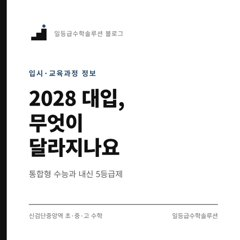
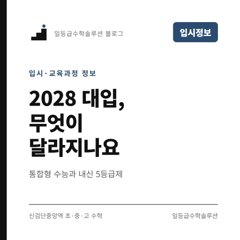
상담 페이지 블로그 카드: 제목 꼬리표·썸네일 뱃지 반영

Changed region(s): [[0.7, 0.0875, 0.9333, 0.2042]]

diff --git a/index.html b/index.html
@@ -97,10 +97,10 @@ form.card input:focus,form.card select:focus,form.card textarea:focus{outline:2p
   <!-- 블로그 공개 글 카드: 홍보\블로그\_sync_site_posts.py 가 자동으로 채움. 직접 고치지 말 것 -->
   <!--POSTS-->
   <div class="sec">블로그 글</div>
-  <a class="post" href="https://m.blog.naver.com/firstclassmath_2026/224470456575" target="_blank" rel="noopener"><img src="blog/t_7ce211095b.jpg" alt="" loading="lazy"><span class="tx"><small>일등급수학솔루션 소개</small><b>일등급수학솔루션을 소개합니다 (초·중·고 수학전문학원)</b></span><span class="ar">›</span></a>
+  <a class="post" href="https://m.blog.naver.com/firstclassmath_2026/224470456575" target="_blank" rel="noopener"><img src="blog/t_7ce211095b.jpg" alt="" loading="lazy"><span class="tx"><small>일등급수학솔루션 소개</small><b>[학원소개] 검단 신검단중앙역 수학학원, 일등급수학솔루션을 소개합니다 (초·중·고 수학전문학원)</b></span><span class="ar">›</span></a>
   <a class="post" href="https://m.blog.naver.com/firstclassmath_2026/224471160661" target="_blank" rel="noopener"><img src="blog/t_7eccb88f44.jpg" alt="" loading="lazy"><span class="tx"><small>수업 안내</small><b>[고등부][대치동·연세대 강사진] 2026 겨울 수업 안내</b></span><span class="ar">›</span></a>
   <a class="post" href="https://m.blog.naver.com/firstclassmath_2026/224471161173" target="_blank" rel="noopener"><img src="blog/t_e1d3933fd3.jpg" alt="" loading="lazy"><span class="tx"><small>수업 안내</small><b>[초·중등부][원장직강] 2026 겨울 수업 안내</b></span><span class="ar">›</span></a>
-  <a class="post" href="https://m.blog.naver.com/firstclassmath_2026/224470513574" target="_blank" rel="noopener"><img src="blog/t_72f233f001.jpg" alt="" loading="lazy"><span class="tx"><small>입시·교육과정 정보</small><b>2028 대입, 무엇이 달라지나요</b></span><span class="ar">›</span></a>
+  <a class="post" href="https://m.blog.naver.com/firstclassmath_2026/224470513574" target="_blank" rel="noopener"><img src="blog/t_72f233f001.jpg" alt="" loading="lazy"><span class="tx"><small>입시·교육과정 정보</small><b>[입시정보] 2028 대입, 무엇이 달라지나요</b></span><span class="ar">›</span></a>
   <!--/POSTS-->
 
   <div class="sec">학원 소식</div>
